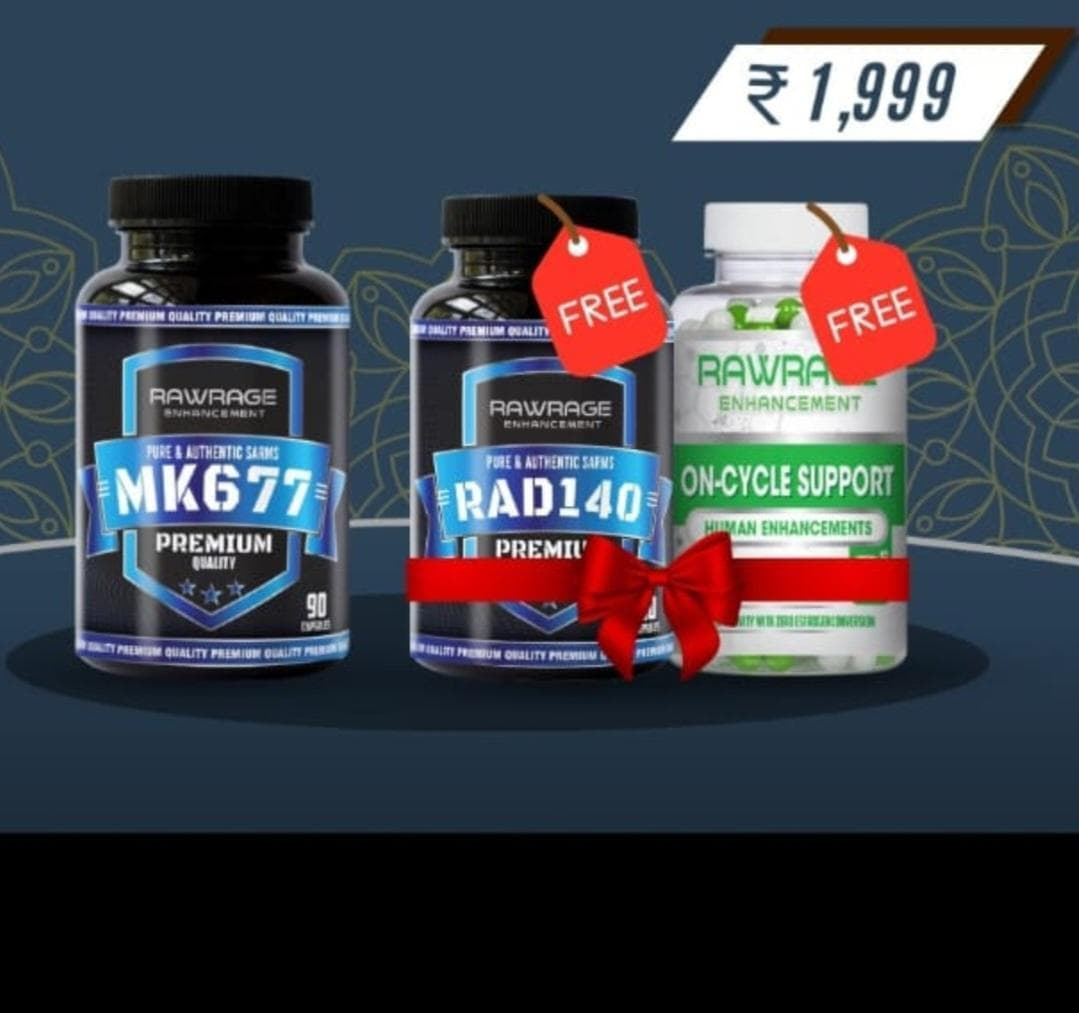
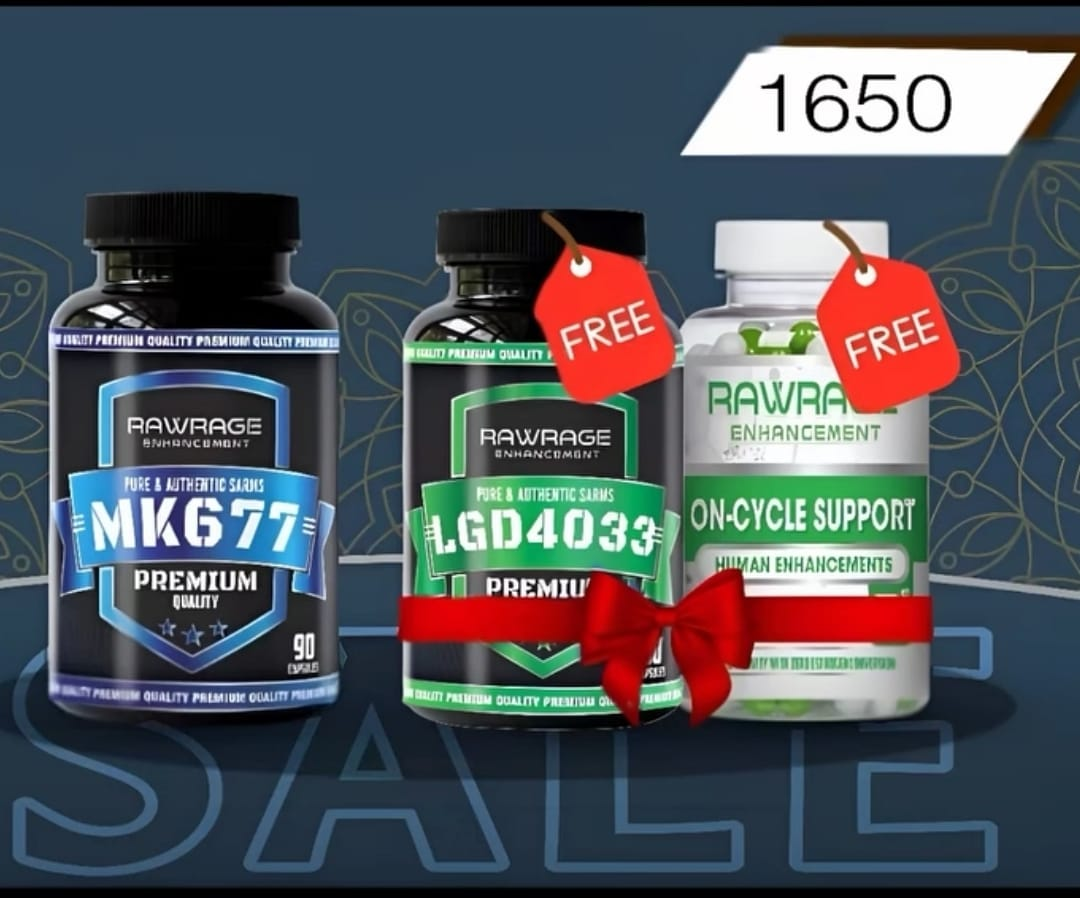
feat:update product

diff --git a/src/app/data/products.js b/src/app/data/products.js
@@ -182,7 +182,7 @@ export const products = [
     id: nanoid(),
     name: "Rawrage Rawrage MK677",
     slug: "mk677",
-    price: 1999.0,
+    price: 1650.0,
     items: [
       {
         name: "Rawrage MK-677 (Ibutamoren)",
